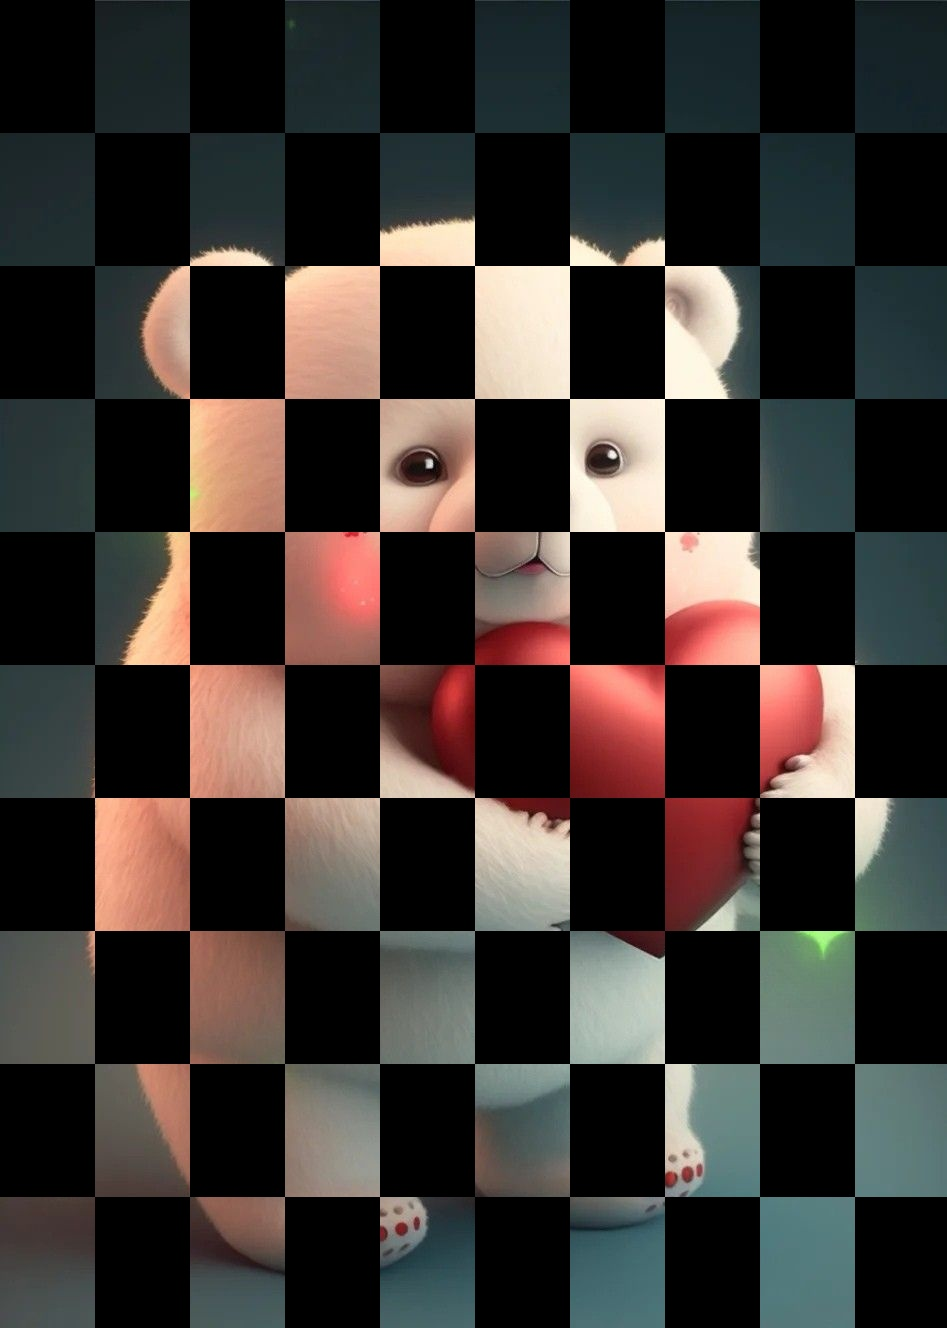
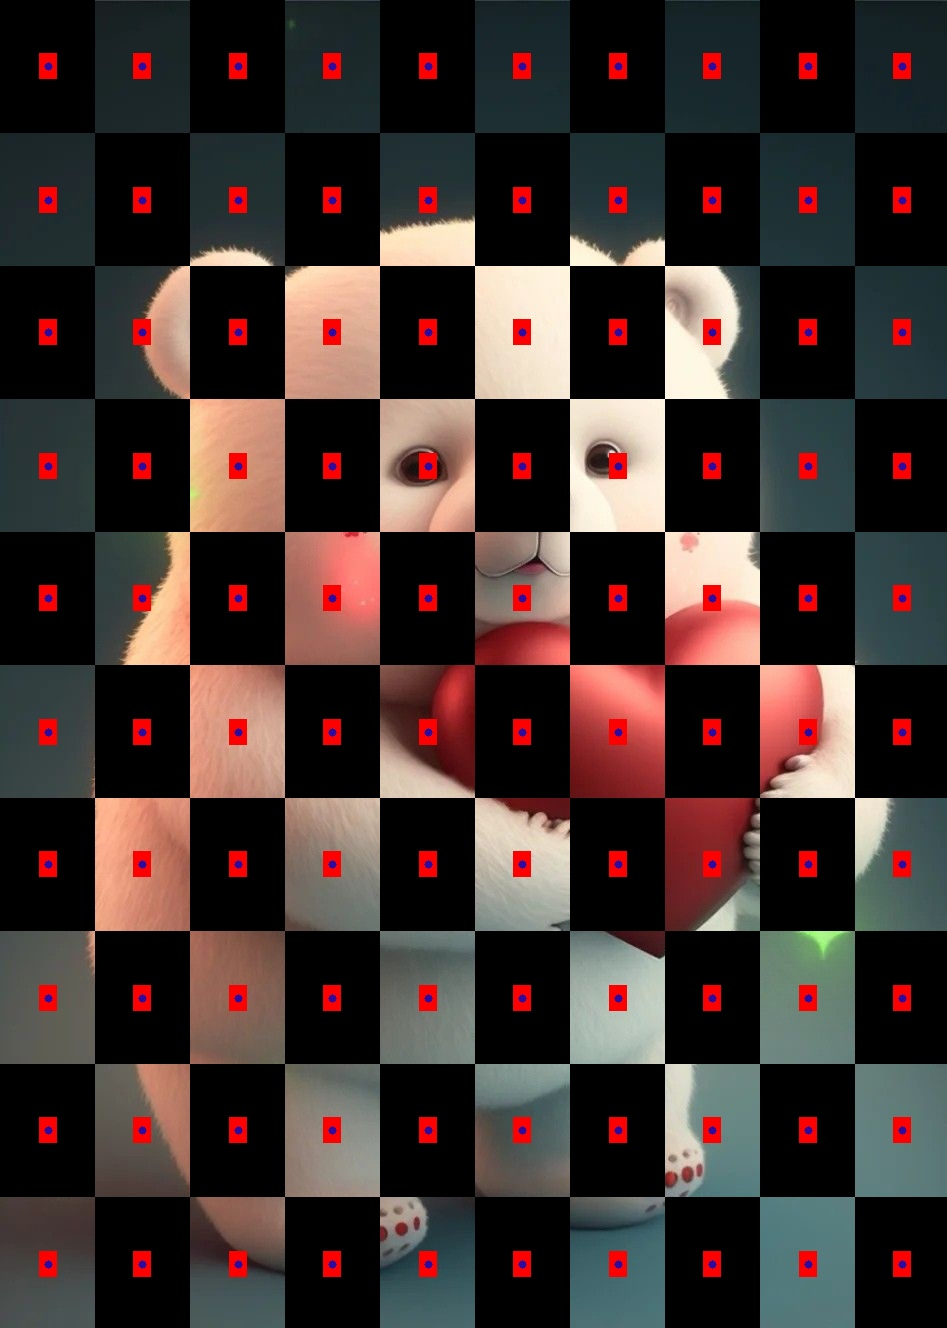
Add square center dots

diff --git a/ml1_opencv.py b/ml1_opencv.py
@@ -33,12 +33,25 @@ def get_shahmatka_from_image(image_path : str , divider_h : int = 10, divider_w 
         else:
             black_index = 1
         for col_index in range(divider_w):
-            if black_index % 2 == 0:
+                y_top = row_index * black_h 
+                y_bottom = (row_index + 1) * black_h
+                x_left = col_index * black_w
+                x_right = (col_index + 1) * black_w
+                center_y = int(np.round((y_top + y_bottom) / 2))
+                center_x = int(np.round((x_left + x_right) / 2))
+                center_radius_x= black_w // 10
+                center_radius_y= black_h // 10
+                if black_index % 2 == 0:
+                    image[
+                        y_top : y_bottom,
+                        x_left : x_right,
+                    ] *= 0
                 image[
-                    row_index * black_h : (row_index + 1) * black_h,
-                    col_index * black_w : (col_index + 1) * black_w
-                ] *= 0
-            black_index += 1
+                    center_y - center_radius_y : center_y + center_radius_y,
+                    center_x - center_radius_x: center_x + center_radius_x,
+                ] = (0,0,255)
+                black_index += 1
+                image = cv2.circle(image, (center_x, center_y), center_radius_x // 2, (160, 10, 45), -1)
         row_starts_with_black = not row_starts_with_black
     return image
 
